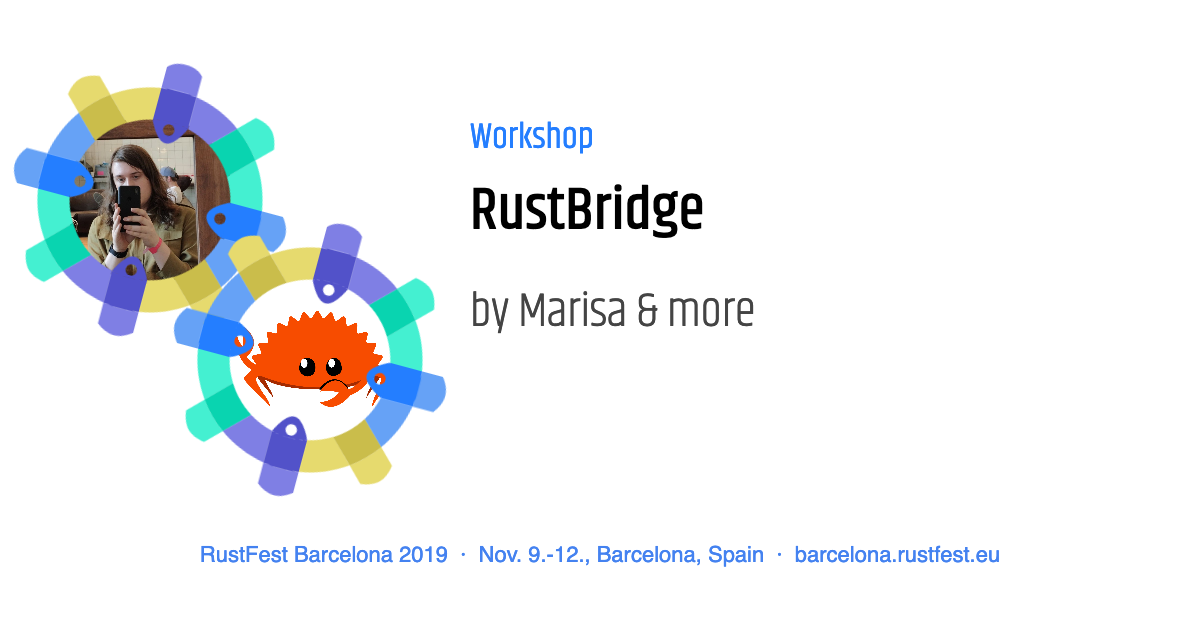
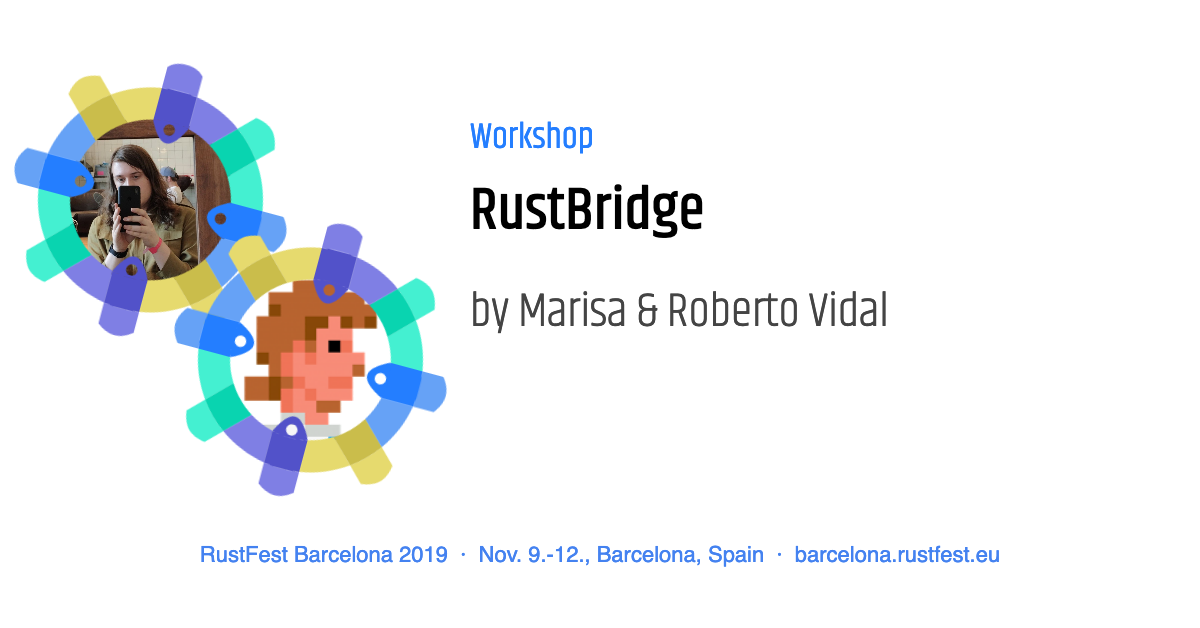
Add roberto

Changed region(s): [[0.185, 0.4236, 0.3392, 0.6959], [0.555, 0.4538, 0.74, 0.5446]]

diff --git a/_layouts/meta-twitter-card-generator.html b/_layouts/meta-twitter-card-generator.html
@@ -303,7 +303,7 @@
         ["ferris.png", "WebRTC with GStreamer and Tokio", "Workshop", "by Sebastian Dröge"],
         [["lislis.jpg", "ferris.png"], "2D game programming with Rust", "Workshop", "by Lisa Passing & Ramón Huidobro"],
         ["ferris.png", "Rust and eBPF", "Workshop", "by Red Sift"],
-        [["marisa.jpg", "ferris.png"], "RustBridge", "Workshop", "by Marisa & more"],
+        [["marisa.jpg", "rvidal.png"], "RustBridge", "Workshop", "by Marisa & Roberto Vidal"],
         ["ferris.png", "<tbd>", "Workshop", "by Georg Semmler"],
     ];
     var card = document.querySelector('.card.single');

diff --git a/_sessions/rustbridge.md b/_sessions/rustbridge.md
@@ -5,6 +5,7 @@ type: workshop
 display_first: true
 
 speakers:
+  - rvidal
   - marisa
 
 title: RustBridge
